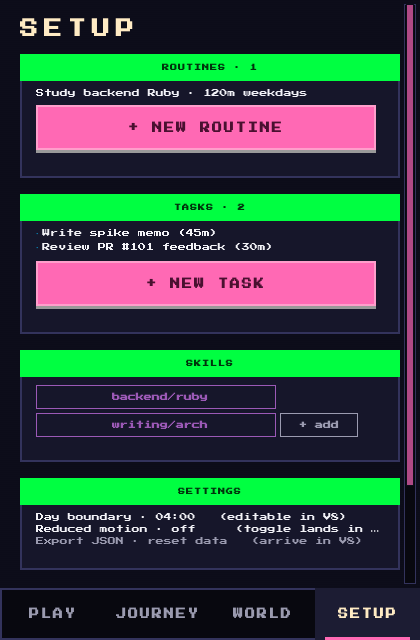
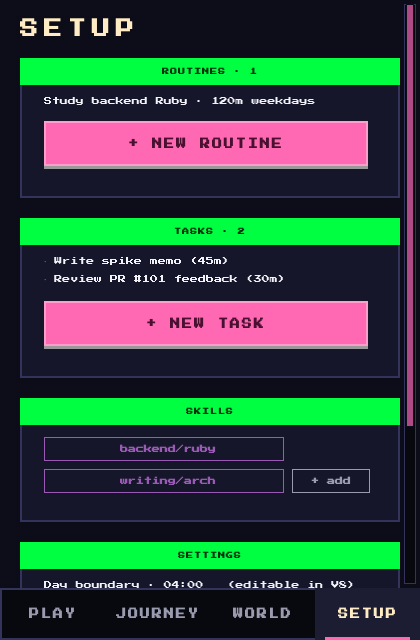
fix(#93): breathing pass — segment gaps, track contrast, card interiors
Three live-pass findings (Mohamed, walkthrough #8):

- SegmentedBar filled runs fused into one slab ('=' not '- _ -'). Gap
  raised 2px -> 3px on the 4px grid so every segment reads as its own
  dash; empty-track border switched surfaceLowest -> textMuted so the
  unfilled portion reads against dark cards instead of vanishing.
- Card interiors cramped: ArcadeCard content margins x space(4)->6,
  bottom space(6)->7, ribbon gap ->3, inter-element spacing space(2)->4.
- List rows inside cards (habits, tasks, landmarks, ledger, settings,
  tracks) bumped from space(1) to space(2); card-to-card spacing on each
  surface space(4)->5.

All values stay on design.md's 4px grid. Evidence refreshed for four
surfaces; tests 156/156.

diff --git a/arcade/ArcadeCard.qml b/arcade/ArcadeCard.qml
@@ -15,9 +15,11 @@ Rectangle {
     property bool emphasized: false   // the one dominant card on a surface
 
     implicitWidth: 380
-    // padding: 12px frame + 8px gap under ribbon + content height + 12px bottom
-    implicitHeight: (ribbon.length > 0 ? Theme.space(7) + Theme.space(2) : Theme.space(3))
-                    + contentArea.height + Theme.space(6)
+    // padding: ribbon strip + gap under it + content height + generous bottom
+    // (live pass #28-30: inner content needs to breathe — all values stay on
+    // the design.md 4px grid)
+    implicitHeight: (ribbon.length > 0 ? Theme.space(7) + Theme.space(3) : Theme.space(4))
+                    + contentArea.height + Theme.space(7)
     color: root.emphasized ? Theme.surface : Theme.surfaceLow
     border.color: root.emphasized ? Theme.coinGold : Theme.border
     border.width: root.emphasized ? 2 : 2
@@ -45,12 +47,13 @@ Rectangle {
     }
 
     // fixed top offset, then let the Column report its own height — no
-    // childrenRect-on-parent timing traps
+    // childrenRect-on-parent timing traps. x/y margins + spacing are the
+    // card's internal breathing room (live pass #28-30).
     Column {
         id: contentArea
-        x: Theme.space(4)
-        y: root.ribbon.length > 0 ? ribbonRect.height + Theme.space(2) : Theme.space(3)
-        width: root.width - Theme.space(8)
-        spacing: Theme.space(2)
+        x: Theme.space(6)
+        y: root.ribbon.length > 0 ? ribbonRect.height + Theme.space(3) : Theme.space(4)
+        width: root.width - Theme.space(12)
+        spacing: Theme.space(4)
     }
 }

diff --git a/arcade/screens/SetupScreen.qml b/arcade/screens/SetupScreen.qml
@@ -35,13 +35,13 @@ ArcadeScreen {
         ribbon: "TASKS · " + root.fixture.planning.tasks.length
         Column {
             width: parent.width
-            spacing: Theme.space(1)
+            spacing: Theme.space(2)
             Repeater {
                 model: root.fixture.planning.tasks
                 delegate: Row {
                     required property var modelData
                     width: parent.width
-                    spacing: Theme.space(1)
+                    spacing: Theme.space(2)
                     Text { text: "·"; color: Theme.arcadeBlue; font.pixelSize: Theme.typeBody }
                     Text {
                         width: parent.width - Theme.space(3)
@@ -63,7 +63,7 @@ ArcadeScreen {
         ribbon: "SKILLS"
         Flow {
             width: parent.width
-            spacing: Theme.space(1)
+            spacing: Theme.space(2)
             StatChip { compact: true; label: ""; value: "backend/ruby"; valueColor: Theme.cyberPurple }
             StatChip { compact: true; label: ""; value: "writing/arch"; valueColor: Theme.cyberPurple }
             StatChip { compact: true; label: "+"; value: "add"; valueColor: Theme.textMuted }
@@ -76,7 +76,7 @@ ArcadeScreen {
         ribbon: "SETTINGS"
         Column {
             width: parent.width
-            spacing: Theme.space(1)
+            spacing: Theme.space(2)
             Text {
                 width: parent.width
                 text: "Day boundary · 04:00   (editable in V8)"

diff --git a/arcade/screens/WorldScreen.qml b/arcade/screens/WorldScreen.qml
@@ -43,7 +43,7 @@ ArcadeScreen {
 
             Column {
                 width: parent.width
-                spacing: Theme.space(1)
+                spacing: Theme.space(2)
 
                 Text {
                     width: parent.width
@@ -65,7 +65,7 @@ ArcadeScreen {
                     delegate: Row {
                         required property var modelData
                         width: parent.width
-                        spacing: Theme.space(1)
+                        spacing: Theme.space(2)
                         Text {
                             text: modelData.achieved ? "[★]" : "[·]"
                             color: modelData.achieved ? Theme.chromeYellow : Theme.textMuted
@@ -95,7 +95,7 @@ ArcadeScreen {
 
         Column {
             width: parent.width
-            spacing: Theme.space(1)
+            spacing: Theme.space(2)
             Repeater {
                 model: root.fixture.story.antagonists
                 delegate: Text {

diff --git a/arcade/screens/RecoveryScreen.qml b/arcade/screens/RecoveryScreen.qml
@@ -35,7 +35,7 @@ ArcadeScreen {
 
             Column {
                 width: parent.width
-                spacing: Theme.space(1)
+                spacing: Theme.space(2)
 
                 Text {
                     width: parent.width
@@ -89,7 +89,7 @@ ArcadeScreen {
 
         Column {
             width: parent.width
-            spacing: Theme.space(1)
+            spacing: Theme.space(2)
 
             Text {
                 width: parent.width
@@ -101,7 +101,7 @@ ArcadeScreen {
             }
             Flow {
                 width: parent.width
-                spacing: Theme.space(1)
+                spacing: Theme.space(2)
                 StatChip { compact: true; label: ""; value: "social media"; valueColor: Theme.cyberPurple }
                 StatChip { compact: true; label: ""; value: "gaming"; valueColor: Theme.cyberPurple }
                 StatChip { compact: true; label: ""; value: "custom…"; valueColor: Theme.textMuted }

diff --git a/arcade/SegmentedBar.qml b/arcade/SegmentedBar.qml
@@ -13,9 +13,13 @@ Rectangle {
     property color fill: Theme.coinGold
     property color fillBorder: Theme.goldDim
     property color empty: Theme.surfaceLowest
-    property color emptyBorder: Theme.border
+    // textMuted border so the empty track reads against dark cards
+    // (live pass #27: previous border token vanished into the background)
+    property color emptyBorder: Theme.textMuted
 
-    readonly property int gap: 2
+    // 3px gaps keep every segment reading as its own dash — filled runs must
+    // never fuse into one slab (Mohamed live pass: wanted "- _ -", not "=")
+    readonly property int gap: 3
     // floor keeps integer pixel widths — no sub-pixel fuzz under software
     // rendering; the leftover (<blocks px) stays transparent at the right edge
     readonly property int blockWidth: Math.max(1,

diff --git a/arcade/screens/PlayScreen.qml b/arcade/screens/PlayScreen.qml
@@ -59,7 +59,7 @@ ArcadeScreen {
         }
         Flow {
             width: parent.width
-            spacing: Theme.space(1)
+            spacing: Theme.space(2)
             Repeater {
                 model: root.taskList
                 delegate: StatChip {
@@ -144,14 +144,14 @@ ArcadeScreen {
 
         Column {
             width: parent.width
-            spacing: Theme.space(1)
+            spacing: Theme.space(2)
 
             Repeater {
                 model: root.fixture.habit.habits
                 delegate: Row {
                     required property var modelData
                     width: parent.width
-                    spacing: Theme.space(1)
+                    spacing: Theme.space(2)
 
                     Rectangle {
                         id: checkCell

diff --git a/arcade/screens/JourneyScreen.qml b/arcade/screens/JourneyScreen.qml
@@ -55,7 +55,7 @@ ArcadeScreen {
 
         Column {
             width: parent.width
-            spacing: Theme.space(1)
+            spacing: Theme.space(2)
             Repeater {
                 model: root.fixture.progression.ledger.slice(0, 3)
                 delegate: Row {
@@ -105,7 +105,7 @@ ArcadeScreen {
 
         Flow {
             width: parent.width
-            spacing: Theme.space(1)
+            spacing: Theme.space(2)
             Repeater {
                 model: root.fixture.story.achievements
                 delegate: StatChip {

diff --git a/arcade/ArcadeScreen.qml b/arcade/ArcadeScreen.qml
@@ -31,7 +31,8 @@ FocusScope {
         id: contentColumn
         anchors.fill: parent
         anchors.margins: Theme.space(5)      // 20px frame — let the shell breathe
-        spacing: Theme.space(4)              // 16px between cards
+        spacing: Theme.space(5)              // 20px between cards (#93 live pass:
+                                             // surfaces felt cramped card-to-card)
 
         Text {
             visible: root.title.length > 0
